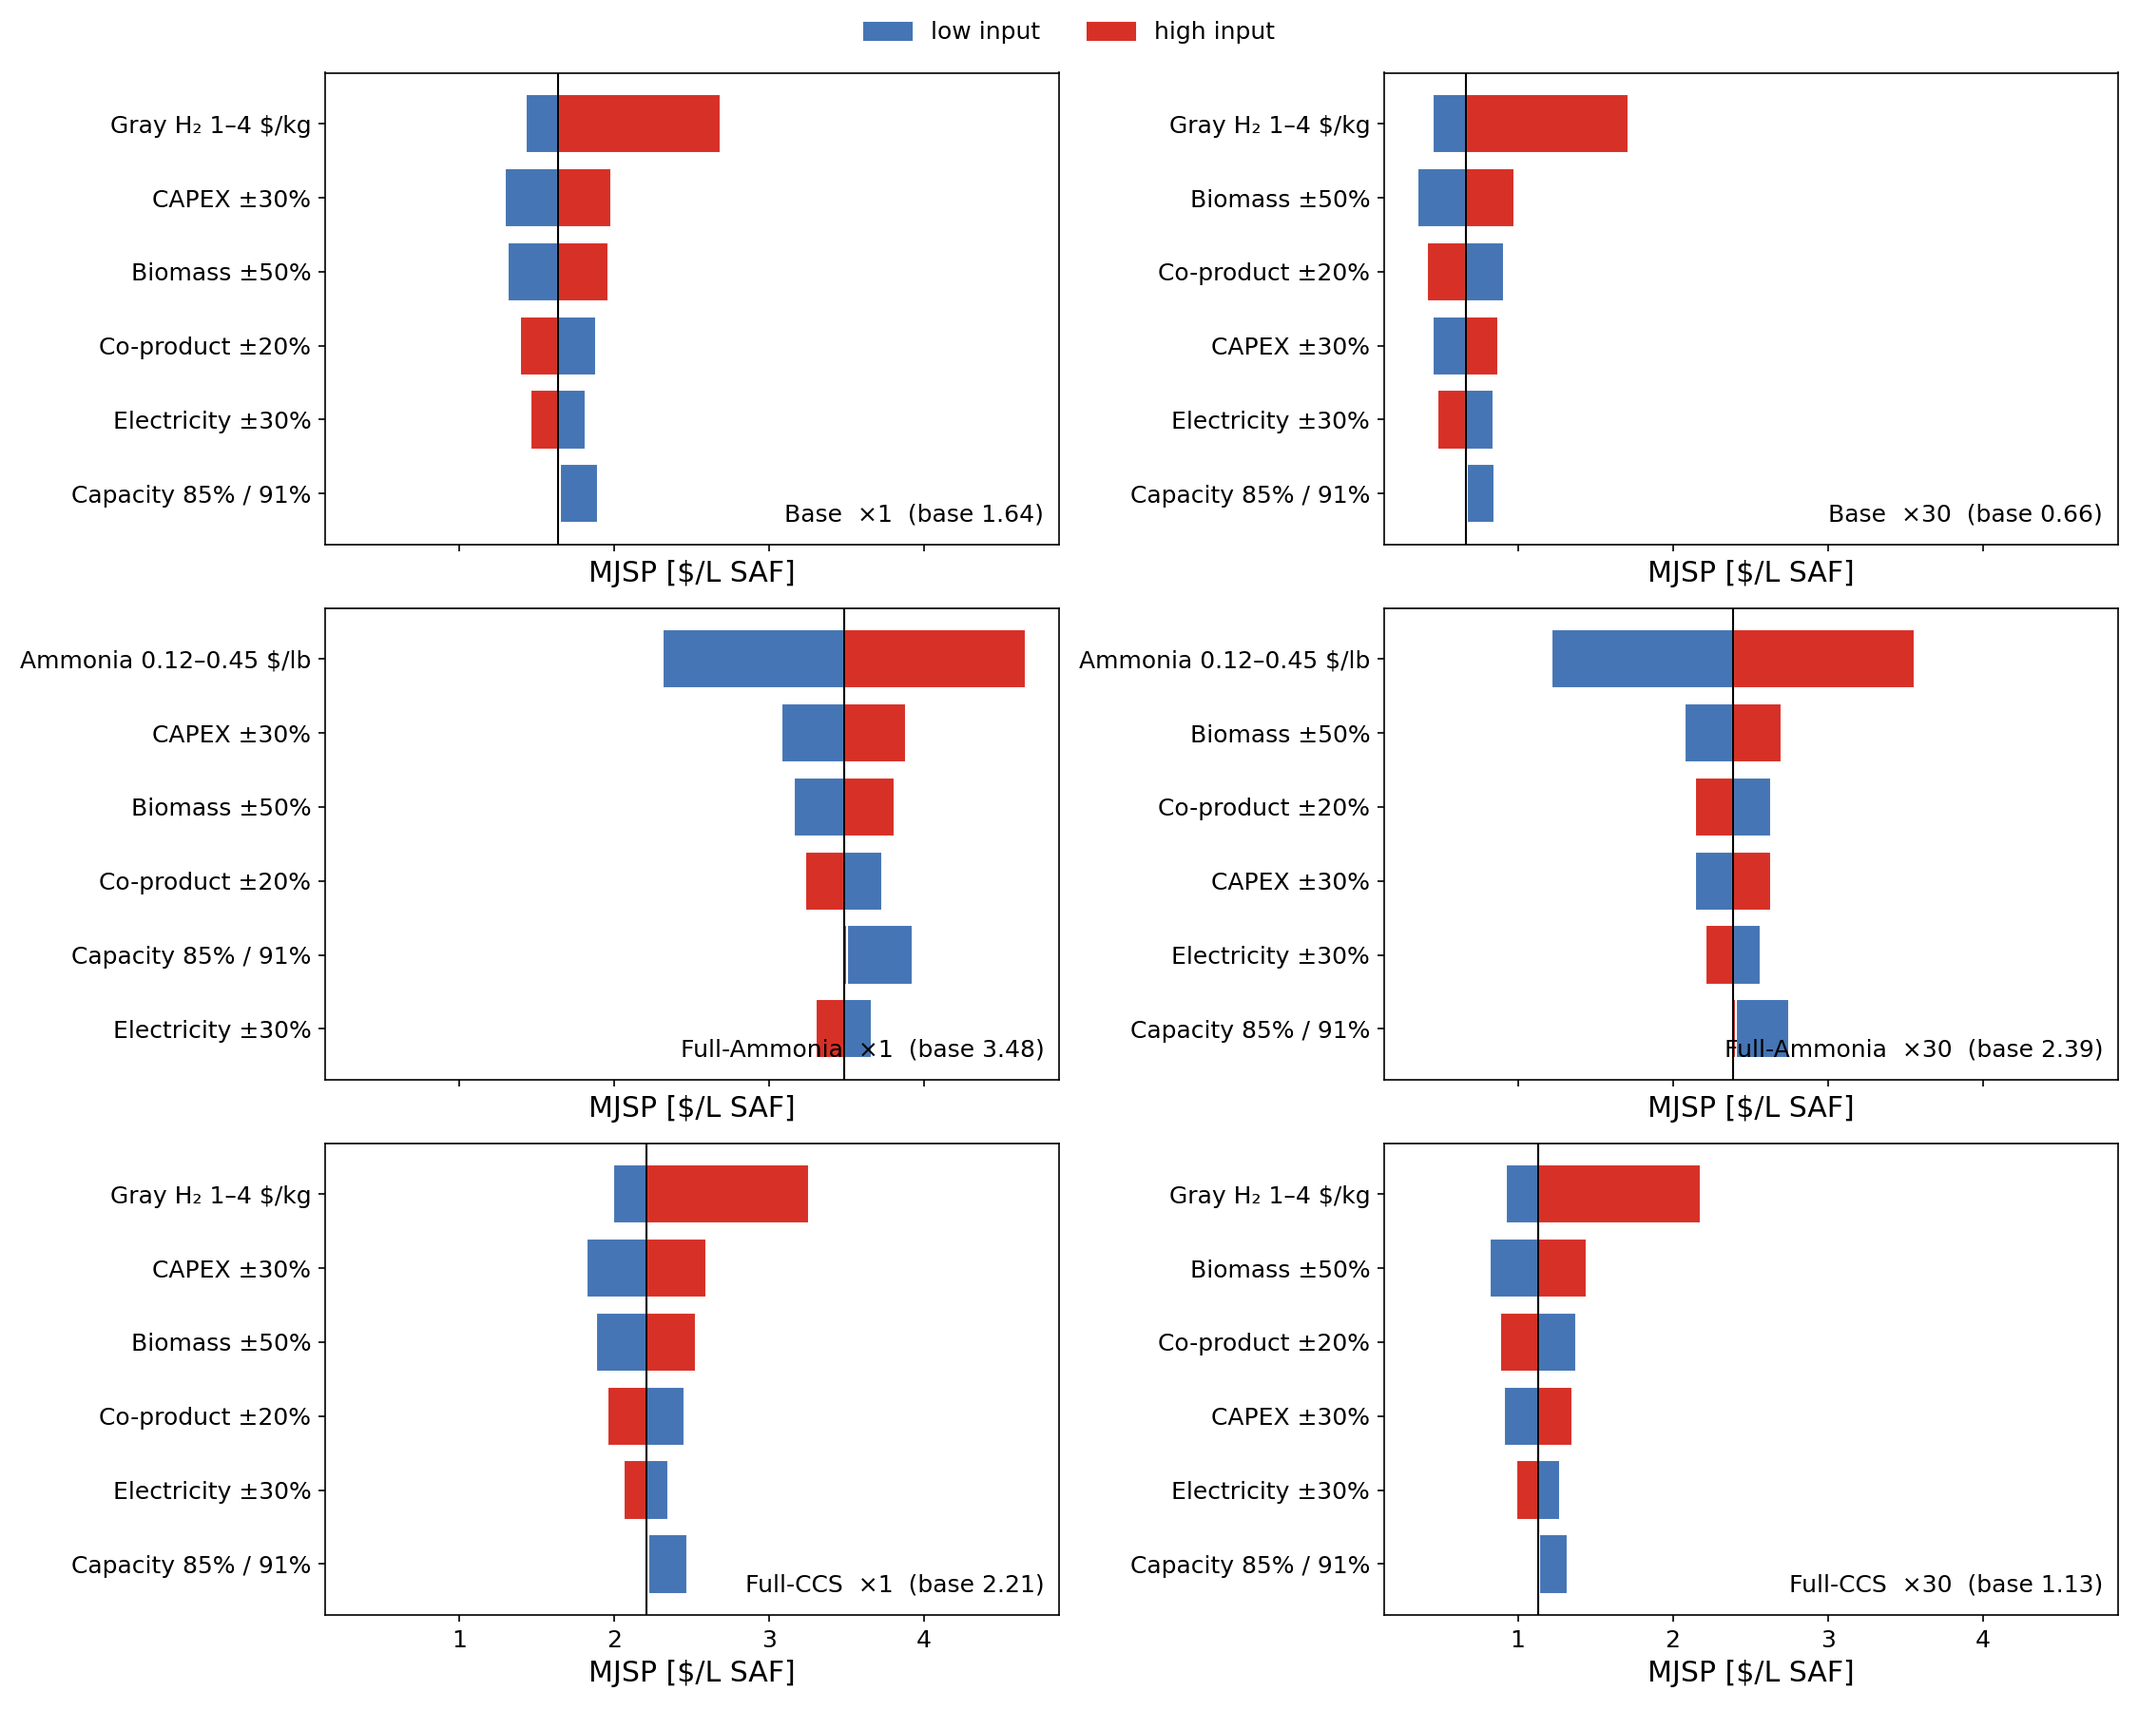
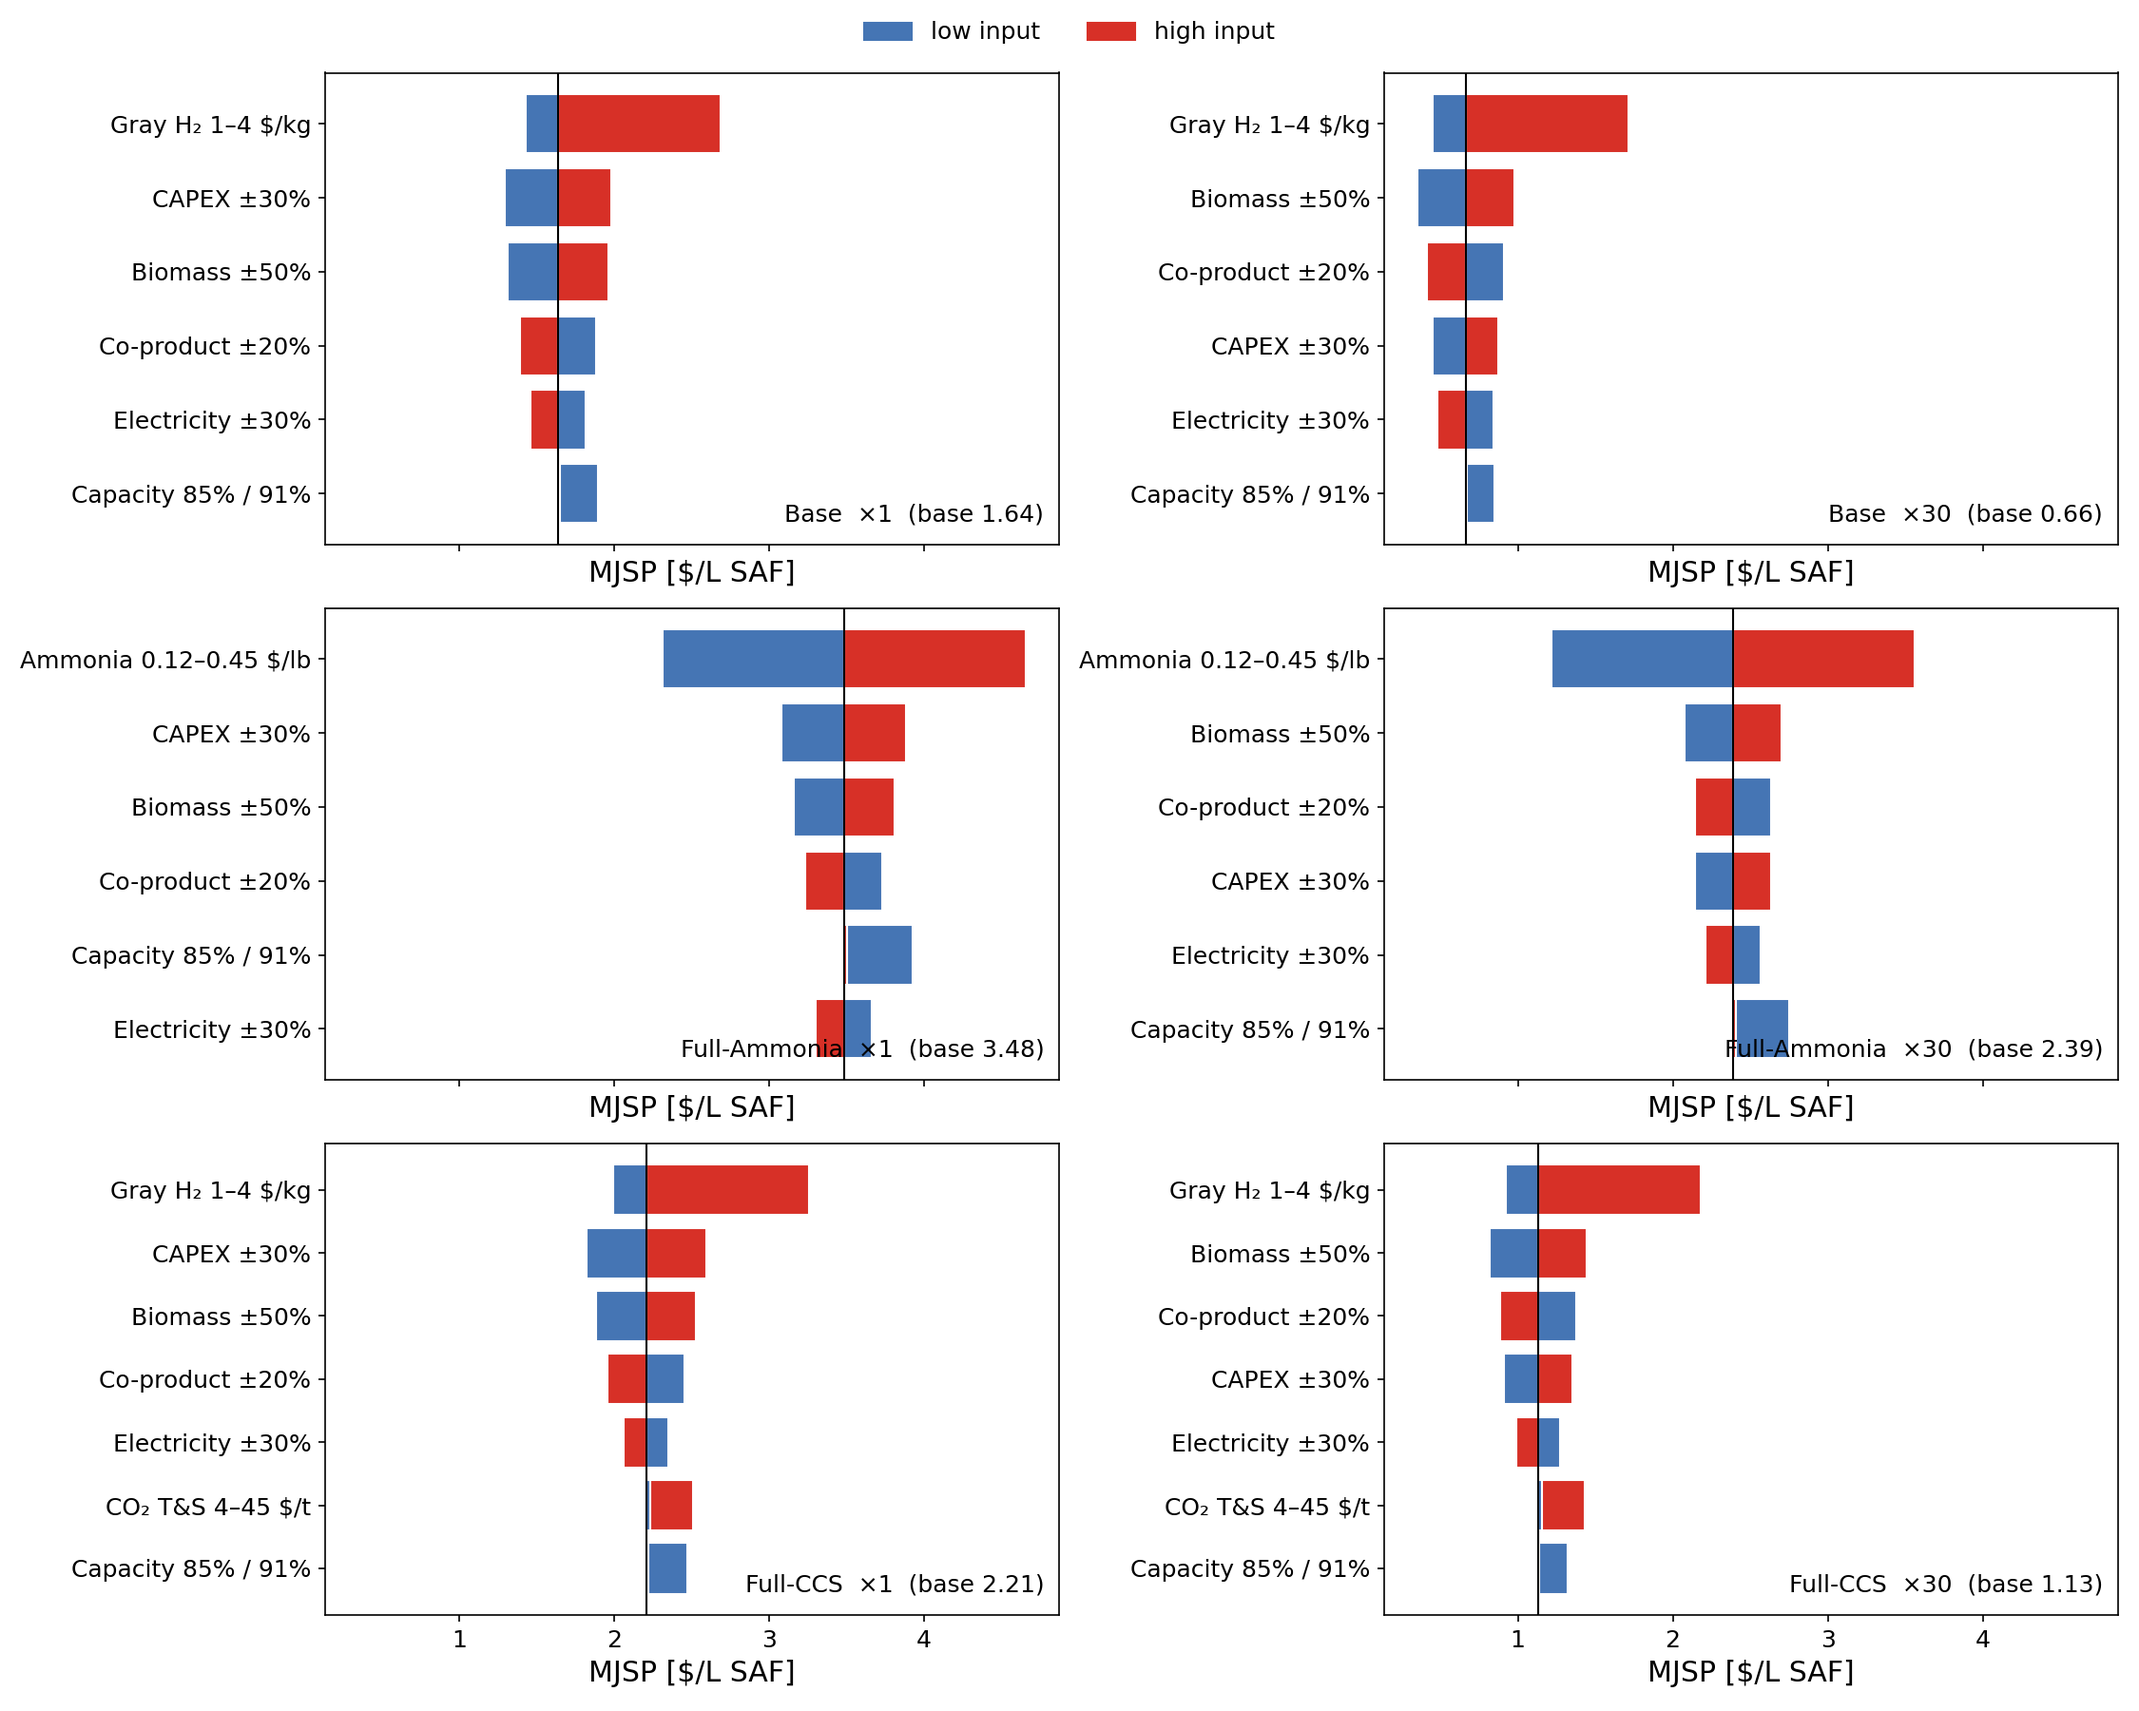
Add CO2 T&S 4-45 $/t bar to Full-CCS tornado
Eighth bar on the two Full-CCS panels: sequestered CO2 (623CO2+622X) priced at
4-45 $/tCO2, base 0; span ~0.28 $/L, scale-invariant. Report method table, §2,
and log updated.

Claude-Session: https://claude.ai/code/session_016MjFwwDgUpjrZDZMd1ma7x

diff --git a/tea_tornado.py b/tea_tornado.py
@@ -23,6 +23,7 @@ ELEC_F = (0.70, 1.30)      # electricity price +-30%
 COPROD_F = (0.80, 1.20)    # co-product price +-20%
 CAPEX_PM = 0.30            # CAPEX +-30%
 CF_HOURS = (0.85 * 8760, 0.91 * 8760)   # capacity factor 85% / 91% (base 8000 h = 91.3%)
+TS_RANGE = (4, 45)         # CO2 transport & storage, $/tCO2 (Full-CCS only; base = 0)
 # Ammonia price: same source of truth as tea_scale_up_abatement.py:20-23
 AMM_FEED_USD_L, AMM_P_BASE = 2.038, 0.288
 AMM_PRICE = (0.1225, 0.4535)   # $/lb, low (projected) / high (current)
@@ -92,6 +93,15 @@ def cell_bars(fs: str, fa: str, cfg: str) -> tuple[float, list[tuple[str, float,
 
     cap_inv = row['capital investment']               # $/L, config-specific (incl. CCS for Full-CCS)
     bars.append(('CAPEX ±30%', base - CAPEX_PM * cap_inv, base + CAPEX_PM * cap_inv))
+
+    if s['ccs']:
+        # CO2 T&S ($/tCO2) on sequestered CO2; base = 0 (off). Seq def matches calc_cost_CCS / abatement.
+        dfm = pd.read_excel(fs, sheet_name='Material', header=3)
+        idx = tea.get_idx_material(dfm)
+        seq_tpy = (dfm['623CO2'][idx['mass flow [lb/hr]']] * s['ccs']
+                   + dfm['622X'][idx['mass flow [lb/hr]']]) / 2204.62 * op   # t/yr
+        lo, hi = TS_RANGE
+        bars.append(('CO₂ T&S 4–45 $/t', base + seq_tpy * lo / saf, base + seq_tpy * hi / saf))
 
     # re-run bars ----------------------------------------------------------
     e_lo, e_hi = ELEC_F

diff --git a/_Tornado_Sensitivity.md b/_Tornado_Sensitivity.md
@@ -24,6 +24,7 @@ at base, and records MJSP. Two mechanisms:
 | Co-product | ±20% | all | re-run — `product_price_stream` (316GAS, 336DIES) |
 | CAPEX | ±30% | all | linear — `df_mjsp['capital investment']` |
 | Capacity factor | 85% / 91% | all | re-run — `operation_hr` (0.85/0.91 × 8760) |
+| CO₂ T&S | 4–45 $/tCO₂ | Full-CCS | linear — seq. CO₂ (623CO2 + 622X) × price / SAF; base = 0 |
 
 Configs map to `economic_analysis` as: Base = `['Base'], ccs=0`; Full-Ammonia =
 `['Base','Ammonia'], ccs=0` (Ammonia row); Full-CCS = `['Base'], ccs=1.0` (its
@@ -60,6 +61,8 @@ Ranked drivers (figure: `Figure/tornado.png`; table: `Figure/tornado_sensitivity
   below biomass. Biomass ±50% is scale-robust (~0.62–0.65 $/L).
 - **Electricity and capacity factor are minor** (spans ≤ 0.36 $/L), so the
   optimistic 8000 h assumption is not a material MJSP risk on its own.
+- **CO₂ T&S (4–45 $/tCO₂, Full-CCS)** adds up to ~0.28 $/L (scale-invariant),
+  below CAPEX and biomass — transport & storage price is not a dominant risk.
 
 Conclusion: MJSP uncertainty is governed by the hydrogen source price (gray H₂ or
 ammonia); at commercial scale, feedstock prices outweigh CAPEX. The Full-Ammonia
@@ -77,11 +80,13 @@ ranking is contingent on the assumed ammonia price.
   Mix option was offered (only case with both grey H₂ and ammonia) but not chosen.
 - Optional CO₂ T&S bar on Full-CCS left out by default to match the reviewer's
   seven-item list.
+- Update (same session): user then requested the CO₂ T&S bar be added to
+  Full-CCS; now included as a linear bar ($4–45/tCO₂, base 0).
 
 **Code**
 - `tea_tornado.py` — new driver; per (config, scale) computes base MJSP and the
-  seven §4.7 bars, writes `Figure/tornado.png` (3×2 grid) and
-  `Figure/tornado_sensitivity.xlsx`. Reuses `funs.TEA.economic_analysis`;
+  §4.7 bars (seven; Full-CCS also gets an eighth CO₂ T&S bar), writes
+  `Figure/tornado.png` (3×2 grid, shared x-axis) and `Figure/tornado_sensitivity.xlsx`. Reuses `funs.TEA.economic_analysis`;
   ammonia-price constants copied from `tea_scale_up_abatement.py` (single source
   of truth). Linear bars derived from the base run; electricity/co-product/capacity
   re-run on a fresh `TEA()` with the knob set.
@@ -99,4 +104,3 @@ ranking is contingent on the assumed ammonia price.
 - Electricity bar does not re-price APEA-embedded main-plant electricity (fixed $);
   fertilizer co-product not covered by the co-product bar. Documented as scope, not
   yet quantified.
-- CO₂ T&S ($4–45/tCO₂) not included as a Full-CCS bar; add on request.
